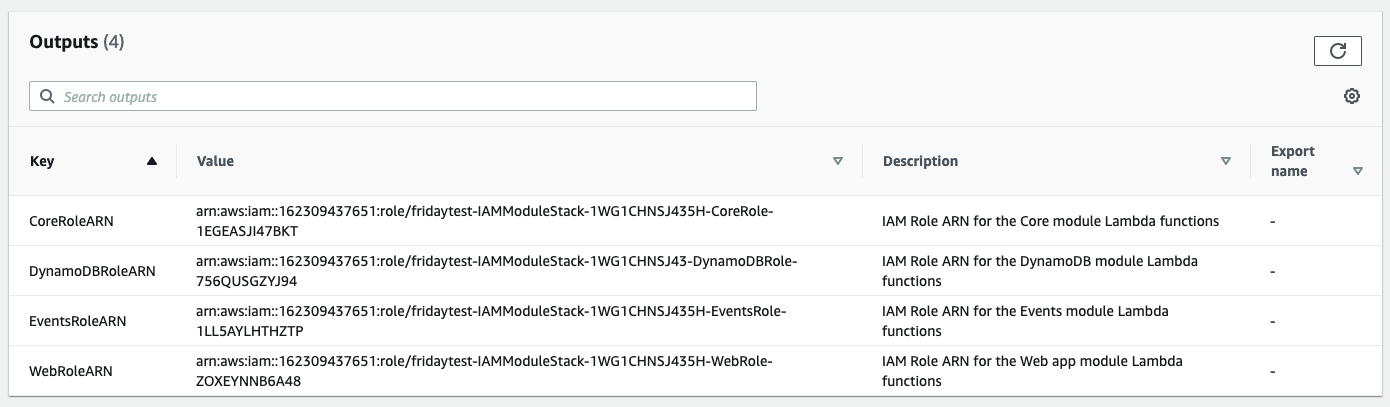
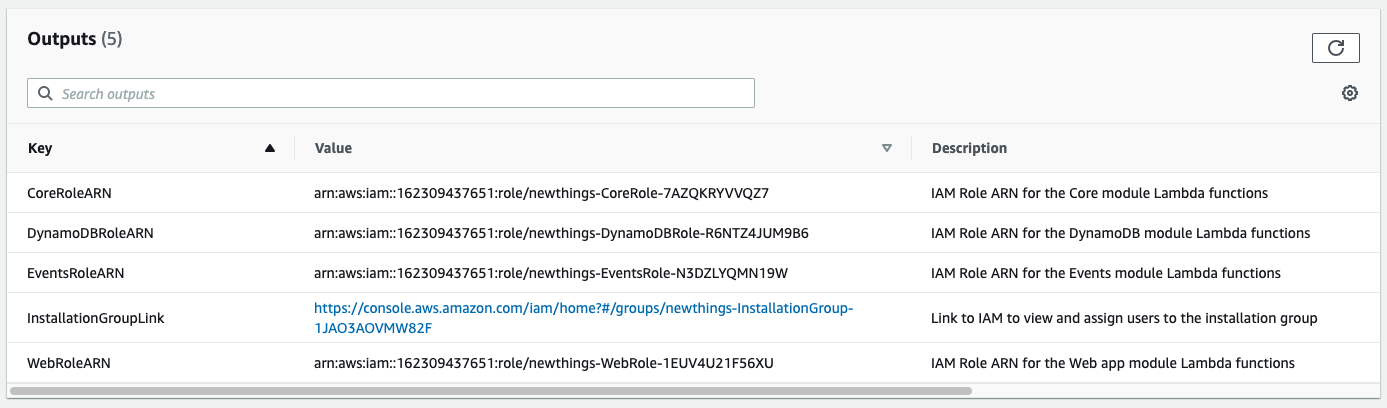
Update INSTALL.md with new IAM template and stack parameters #129

diff --git a/INSTALL.md b/INSTALL.md
@@ -97,7 +97,7 @@ After the template installation finishes and you've recorded the outputs from th
 
 ### Individual Templates
 
-You still have the option to install CloudFormation templates separately. This may be an option for you if you are performing a customized installation that requires special handling between stacks.
+You still have the option to install CloudFormation templates separately. This may be an option for you if you are performing a customized installation that requires special handling between stacks, or if you have distributed responsibilities within your organization for managing your AWS accounts.
 
 The order in which to create the stacks are as follows:
 
@@ -107,16 +107,13 @@ The order in which to create the stacks are as follows:
 1. Create the Event Handler stack
 1. Create the MSAM Web stack 
 
-Install the IAM, DynamoDB, Core and Web stacks in your main, or most accessed region only. The IAM resources installed by CloudFormation  
-The Event Handler stack is installed in each region Media Services are configured.
+Install the IAM, DynamoDB, Core and Web stacks in your main, or most accessed region only. The IAM resources installed by CloudFormation are global, although the stack you use to install them should be run in the same region as the DynamoDB, Core and other stacks. **The Event Handler stack is installed in each region Media Services are configured.**
 
 ### Template 1: IAM Resources
 
-This template will create a stack for the IAM resources needed by MSAM and operators installing the various stacks. for the software running in the AWS cloud. The 
+This template will create a stack for the IAM roles needed by MSAM and a group needed by operators for installing the stacks. 
 
-tables, indices, and on demand capacity settings. The first time a stack is created from this template, defaults are added to scan and display cloud resources in the current region only. These settings can be updated in the tool to expand the inventory coverage to other regions.
-
-`https://rodeolabz-us-west-2.s3.amazonaws.com/msam/msam-dynamodb-release.json`
+`https://rodeolabz-us-west-2.s3.amazonaws.com/msam/msam-iam-roles-release.json`
 
 #### Input Parameters
 
@@ -124,7 +121,7 @@ tables, indices, and on demand capacity settings. The first time a stack is crea
 
 #### Outputs
 
-Go to the Outputs section of the stack and copy the four role ARNs to a notepad. You will need these as input parameters for the next templates. See the following image.
+Go to the Outputs section of the stack and copy the four role ARNs to a notepad. You will need these as input parameters for the next templates. Also, notice the link named `InstallationGroupLink`. This link will take you to IAM to review the group created for granting installation permissions to IAM users. See the following image.
 
 ![IAM Template Outputs](images/iam-template-outputs.png)
 
